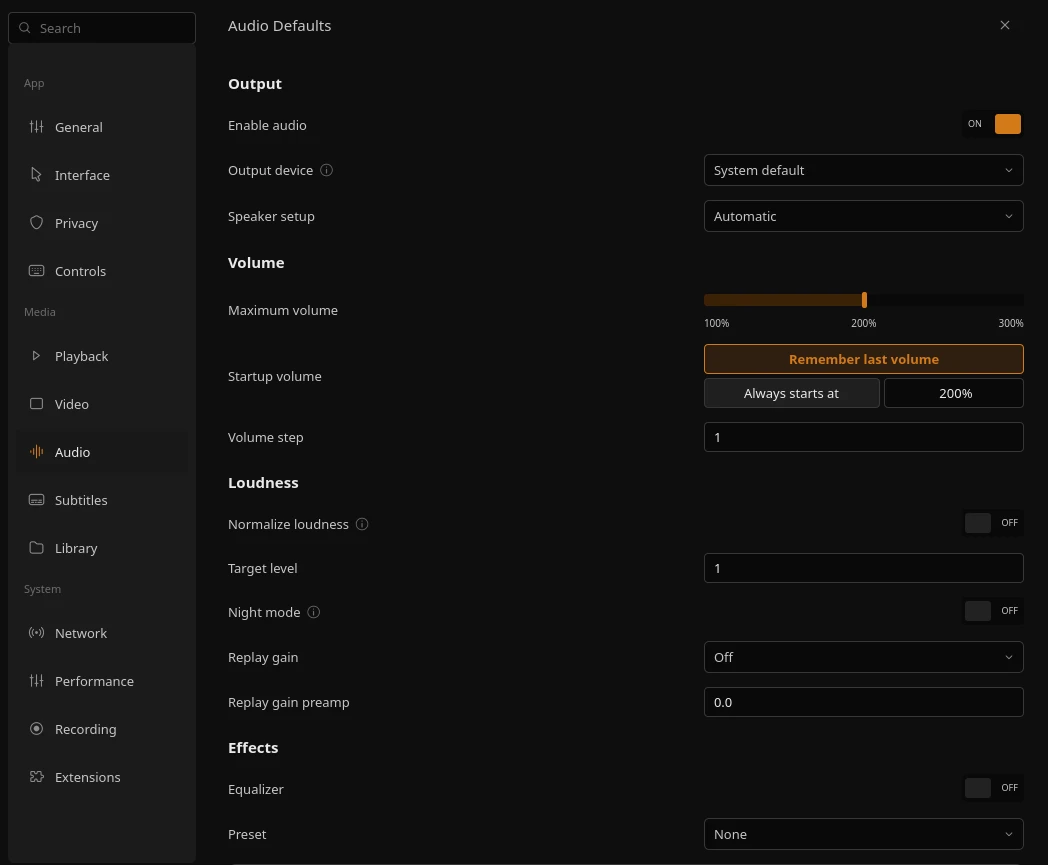
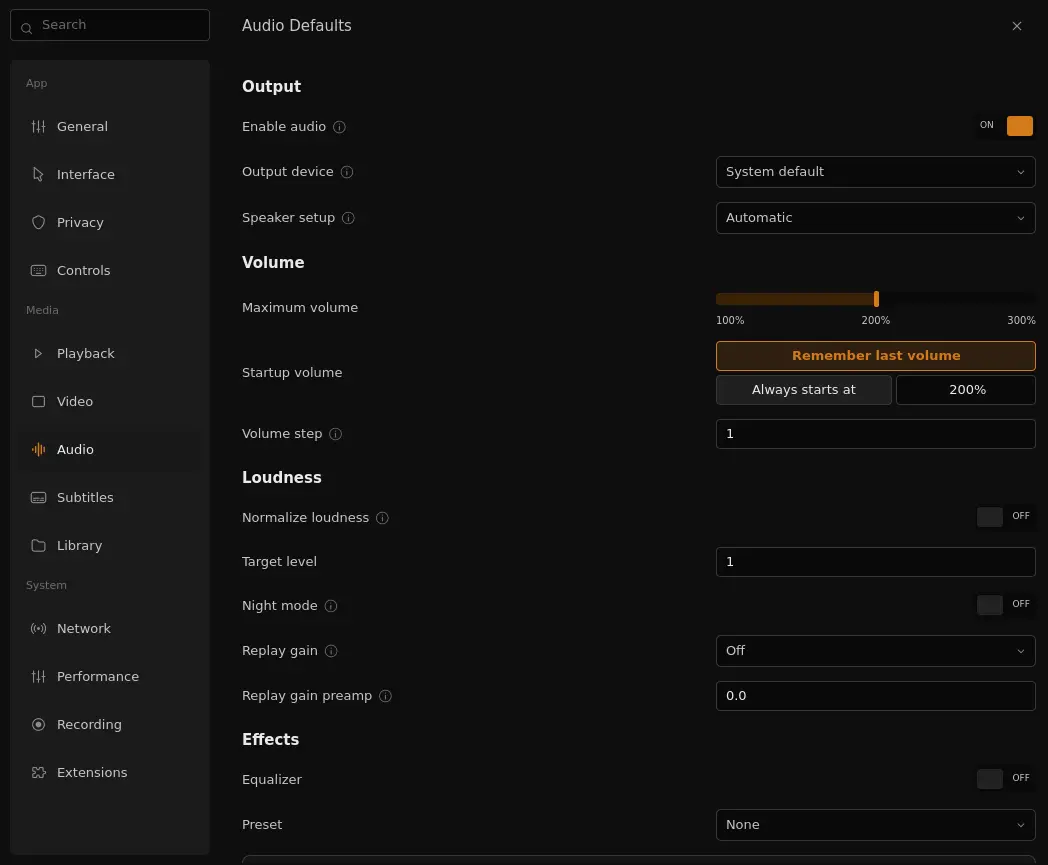
docs: refresh audio settings capture and CI matrix [skip ci]

diff --git a/docs/figma-parity.md b/docs/figma-parity.md
@@ -71,7 +71,7 @@ The video canvas background uses Figma charcoal `#2C2B29` in both themes. Video 
 | **Settings - privacy** — `3062:11911` | Recent history, resume position and network metadata/last.fm choices. | `SettingsDialog.qml` page `privacy`, `Player`, `PlayerStateStore`, `VlcOption.qml`. Recent-item saving and the exclusion filter, which splits entries on the vertical bar, map to VLC's Qt options; the player applies both when recording recents. Resume memory can be disabled, which clears stored resume points and stops new points from being saved. Clear history removes recents and resume points and refreshes the Home/Recent views. Metadata lookup, Last.fm credentials and submission URL map to VLC config. The Last.fm switch tracks the username field and clears both credentials when disabled. Live Last.fm submission still needs account credentials. **Partial.** | Smoke checks option support/round trips, history clearing controls, resume-memory switch synchronization, Last.fm switch/credential behavior, and captures the 1048×865 screen to `docs/screenshots/settings-privacy.webp`.| Compared with Figma node `3062:11911` at the same frame size. A local VLC Neo check opened one video whose folder matched the exclusion and a second allowed video; only the allowed item appeared in Recent. Live Last.fm submission still needs account credentials. |
 | **Settings - playback** — `3062:12552`, `3072:13408` | Startup behavior, resume, default speed, preferred tracks, order and seeking. | `SettingsDialog.qml` page `playback`, `NeoTheme.qml`, `VlcOption.qml`. Resume, autostart, default speed, audio focus, preferred resolution/menu language/audio/subtitle tracks, repeat/shuffle, stop-at-item/end action and precise seeking are mapped to VLC options or the app's persisted resume choice. Audio/subtitle defaults use VLC stream numbers (0-based); -1 leaves track selection to VLC. The “Stop” end action leaves VLC's default playlist-end behavior in place; “Stop after each item” is a separate VLC switch. Playback selectors and track fields use the Figma 320 px width. Advanced start-paused and preparse controls remain available. **Implemented.** | Smoke checks VLC option availability, Simple/Advanced visibility and round trips for rate, quality, language, track numbers, audio focus, shuffle, stop behavior, repeat/end actions and precise seeking. A two-audio/two-subtitle MKV verifies saved stream number 1 selects its Spanish audio and subtitle after restarting VLC. Separate real-VLC relaunch checks confirm Pause reaches the end and stays paused, while Exit closes VLC when the playlist completes. It checks all seven playback controls against the Figma 320 px width and captures the full-frame page to `docs/screenshots/settings-playback.webp`.| Both nodes `3062:12552` and `3072:13408` were visually compared against 1048×865 Neo captures at 86% zoom; the frame, section layout and two startup/resume variants align. The refreshed `settings-playback.webp` now reproduces the Figma example values: Always resume, Best available video, English, tracks 1, Shuffle on and Stop after each item on. The multi-track fixture verifies saved audio/subtitle track numbers after relaunch. A three-second first item followed by a 40-second second item verifies VLC’s `play-and-stop` setting persists across restart and stops before advancing. A second independently generated source with three audio streams and two subtitle streams restores the French audio and subtitle indices after relaunch. |
 | **Settings - video** — `3073:14187`, `3073:15375` | Video output, picture adjustments, deinterlacing, aspect and crop defaults. | `SettingsDialog.qml` page `video`, `SidePanel.qml`, `VlcOption.qml`. The page maps enable-video, fullscreen startup, screensaver, wallpaper mode, hue, brightness, contrast, saturation and gamma to VLC; the “Start videos in fullscreen” option is grouped under Video to match the Figma frame. Adjustment sliders and deinterlace/framing choices use the Figma 320 px control width. Editing an adjustment enables the `adjust` filter while retaining other video filters; returning all five picture controls to their defaults or using Reset removes only `adjust`. Deinterlacing, aspect ratio and crop are also mapped. Output-module and snapshot controls remain Advanced. The `vout` option is saved for other VLC interfaces; Neo always routes playback through its embedded output. Its help text explains this behavior. **Implemented.** | Smoke checks option availability, category grouping, simple/advanced visibility, adjustment/filter behavior, reset, and returning all five picture controls to neutral while preserving unrelated video filters; an isolated non-Neo VLC dummy-interface run confirms saved `vout=none` is applied; it also captures the 1048×865 video preferences screen in `docs/screenshots/settings-video.webp`.| Both 1048×865 video preference states were visually compared with nodes `3073:14187` and `3073:15375`; the option order, slider widths, section spacing and Advanced Options placement align. The selected Video category now uses the canonical `video-active.svg` export, matching the filled orange icon in node `3073:14187`; `settings-video.webp` was refreshed at 1048×865. A live VLC output check exercises picture adjustment; a relaunch check confirms VLC values and QML sliders restore brightness and contrast. A focused run saved `vout=none` and confirmed VLC Neo still received decoded frames through its required embedded output. A focused VLC 3.0.20 run with an isolated `vlcrc` and `--intf=dummy` confirms the non-Neo interface requests the `none` vout module and finds no matching display modules, while Neo continues rendering through its embedded output. |
-| **Settings - audio** — `3073:15879`, `3180:17398` | Audio output, volume, loudness, language, replay gain and effects. | `SettingsDialog.qml` page `audio`, `SidePanel.qml`, `VlcOption.qml`, `NVerticalSlider.qml`. The page maps enable-audio, output module/device, speaker mode, preferred language, pitch preservation, ReplayGain/preamp/peak protection, S/PDIF and volume step to VLC. Maximum volume is adjustable up to 300% and clamps the player; the two startup-volume choices are stacked like the Figma and update VLC's saved-volume behavior, while the fixed value is editable and applied on first media load. Visible audio fields and selectors use the Figma 320 px control width. Decimal fields remove redundant trailing zeros, keep the preamp's minimum one decimal place, and suppress binary float artifacts without changing VLC's stored values. Normalizer and compressor filters update VLC's `audio-filter` while retaining unrelated filters. Normalizer Target level stays visible when its filter is off; night-mode threshold appears when compression is enabled, and both values map to VLC config. The expanded equalizer now has an enable switch, all VLC 3 presets, editable preamp and ten frequency bands, and the two-pass option. Spatial audio and stereo widening toggle VLC 3's `spatializer` and `stereo_widen` filters; their module options are available under Advanced. VLC exposes only one spatializer mode. Active equalizer values are forwarded to the current audio output while also being saved as VLC preferences. Full multi-device selection still depends on the active output backend exposing devices. PipeWire sink switching and multi-track defaults are verified; native PulseAudio service compatibility remains unverified. Direct ALSA opened/configured HDMI 0, but audible playback on connected hardware remains unverified. **Partial.** | Smoke checks that a visible `VlcOption` refreshes after a VLC config update from another control, plus audio option availability, startup-volume selection and first-media application after relaunch through a temporary silent PipeWire PulseAudio sink, always-visible normalizer target, output/speaker config round trips and filter preservation, Figma decimal formatting with 1.75/1.25 precision and a noisy 12.8 float value, equalizer preset selection on real playback, all ten band values, preamp and two-pass config round trips, all nine spatializer/stereo-widen module option types, decimal module-option round trips, and filter enable/disable. Captures the normal audio page and expanded equalizer at 1048×865 to `docs/screenshots/settings-audio.webp` and `docs/screenshots/settings-audio-effects.webp`. CTest checks volume clamping/mute state.| Both captures were compared with their corresponding states in Figma: `settings-audio.webp` with node `3073:15879` and `settings-audio-effects.webp` with node `3180:17398`. A focused playback run on this machine enumerated both PipeWire PulseAudio sinks, switched the muted VLC stream to the other sink and confirmed that the selected device updated while playback continued. The fixed 35% startup volume was verified after relaunch through a temporary silent PipeWire PulseAudio sink. Smoke covers audio-track selection and persistence. A direct VLC ALSA probe opened `hw:CARD=PCH,DEV=3`; because that HDMI endpoint has no attached display or speakers, audible ALSA output remains unverified. Native PulseAudio daemon compatibility is not covered by this PipeWire host. |
+| **Settings - audio** — `3073:15879`, `3180:17398` | Audio output, volume, loudness, language, replay gain and effects. | `SettingsDialog.qml` page `audio`, `SidePanel.qml`, `VlcOption.qml`, `NVerticalSlider.qml`. The page maps enable-audio, output module/device, speaker mode, preferred language, pitch preservation, ReplayGain/preamp/peak protection, S/PDIF and volume step to VLC. Maximum volume is adjustable up to 300% and clamps the player; the two startup-volume choices are stacked like the Figma and update VLC's saved-volume behavior, while the fixed value is editable and applied on first media load. Visible audio fields and selectors use the Figma 320 px control width. Decimal fields remove redundant trailing zeros, keep the preamp's minimum one decimal place, and suppress binary float artifacts without changing VLC's stored values. Normalizer and compressor filters update VLC's `audio-filter` while retaining unrelated filters. Normalizer Target level stays visible when its filter is off; night-mode threshold appears when compression is enabled, and both values map to VLC config. The expanded equalizer now has an enable switch, all VLC 3 presets, editable preamp and ten frequency bands, and the two-pass option. Spatial audio and stereo widening toggle VLC 3's `spatializer` and `stereo_widen` filters; their module options are available under Advanced. VLC exposes only one spatializer mode. Active equalizer values are forwarded to the current audio output while also being saved as VLC preferences. Full multi-device selection still depends on the active output backend exposing devices. PipeWire sink switching and multi-track defaults are verified; native PulseAudio service compatibility remains unverified. Direct ALSA opened/configured HDMI 0, but audible playback on connected hardware remains unverified. **Partial.** | Smoke checks that a visible `VlcOption` refreshes after a VLC config update from another control, plus audio option availability, startup-volume selection and first-media application after relaunch through a temporary silent PipeWire PulseAudio sink, always-visible normalizer target, output/speaker config round trips and filter preservation, Figma decimal formatting with 1.75/1.25 precision and a noisy 12.8 float value, equalizer preset selection on real playback, all ten band values, preamp and two-pass config round trips, all nine spatializer/stereo-widen module option types, decimal module-option round trips, and filter enable/disable. Captures the normal audio page and expanded equalizer at 1048×865 to `docs/screenshots/settings-audio.webp` and `docs/screenshots/settings-audio-effects.webp`. CTest checks volume clamping/mute state.| Both captures were compared with their corresponding states in Figma: `settings-audio.webp` with node `3073:15879` and `settings-audio-effects.webp` with node `3180:17398`. The normal audio capture was refreshed from the successful 2026-10-29 CI smoke artifact; it confirms the two startup-volume choices use the same stacked arrangement as the Figma frame. A focused playback run on this machine enumerated both PipeWire PulseAudio sinks, switched the muted VLC stream to the other sink and confirmed that the selected device updated while playback continued. The fixed 35% startup volume was verified after relaunch through a temporary silent PipeWire PulseAudio sink. Smoke covers audio-track selection and persistence. A direct VLC ALSA probe opened `hw:CARD=PCH,DEV=3`; because that HDMI endpoint has no attached display or speakers, audible ALSA output remains unverified. Native PulseAudio daemon compatibility is not covered by this PipeWire host. |
 | **Settings - subtitles** — `3180:17989`, `6536:13908` | Subtitle enablement, language and encoding, file matching, font, relative/pixel sizing, text color/opacity, outline and shadow. | `SettingsDialog.qml` page `subtitles` follows the Figma sections for tracks/languages and appearance. The preference card uses the Figma's 14 px horizontal and 8/16 px vertical frame insets, 14 px corner radius and dark translucent surface. Navigation and setting fields align to the reference frame width. `VlcOption.qml` maps hex color fields, opacity sliders, bold, outline thickness, shadow and size mode to actual VLC config values. Switching between relative and pixel sizes retains the last pixel value in app settings. The encoding menu now includes all choices reported by the installed VLC build, including `Shift_JIS` and `Windows-1258`. Advanced VLC background and shadow controls remain available. The compact preferences window scrolls its category navigation and stacks the OpenSubtitles key controls to avoid overlap. The desktop key field, Save and Remove controls have non-overlapping layout and accessible names. **Partial.** | Smoke checks frame insets at two window sizes, folder matching, active subtitles, saved timeline style, available subtitle option types, hex color parsing/formatting, relative/pixel switching and restoration, VLC config round trips for encoding, color, bold and opacity, persistence after a VLC relaunch, and captures the subtitles page at the exact 1048×865 Figma frame size; the current comparison image is `docs/screenshots/settings-subtitles.webp`. A separate 720×560 capture verifies the compact layout in [`settings-subtitles-compact.webp`](screenshots/settings-subtitles-compact.webp). The latest cross-distro CI smoke run passed on Arch and Mint, including the API-key geometry assertion. | The 1048×865 subtitle capture is checked against both nodes `6536:13908` and `3180:17989`; section order, typography controls and sizing/color rows align. The encoding list was compared with `vlc --longhelp --advanced` on the installed VLC build and updated to all 43 reported choices. The 720×560 capture confirms the stacked API-key controls and compact frame; category navigation and settings content use separate scroll areas. The custom OpenSubtitles key editor is not present in this Figma frame. It now uses the standard settings-field alignment, a primary Save key action below the field and a secondary Remove key action; desktop and compact geometry are covered by focused checks. |
 | **Settings - controls** — `6536:14482` | Keyboard shortcut discovery/editing, skip amounts, mouse and remote behavior. | `SettingsDialog.qml` page `controls`, `ShortcutsDialog.qml`, `Main.qml`, `NeoTheme.qml`. The page follows the Figma grouping, including reset and edit actions. It maps Figma's vertical/horizontal scroll, reverse direction, four skip amounts and web-remote enable/port to VLC options. Skip values use 320 px fields and show seconds units; the edit/reset buttons and mouse/scroll selectors use the same Figma control width. Keyboard seek steps read VLC's configured jump sizes; video click and double-click actions have saved choices. Neo's displayed shortcuts can be reassigned with conflict rejection, persist across launches, run their mapped action and reset to defaults. The dialog includes all 111 local and all 111 global VLC 3 core hotkey options and restores their values captured at the first opening; it scrolls and switches to one column in narrow windows. The Web remote switch enables VLC's HTTP interface through `extraintf`; VLC loads it after restart. **Partial.** | Smoke verifies available VLC options and round trips, configured jump sizes, Figma field widths and skip units, captures both the controls page and shortcut editor, assigns Neo, local VLC and global VLC shortcuts, checks their persistence/reset behavior, rejects conflicts, and covers keyboard seeking and popup dismissal. VLC Neo saved `extraintf`, HTTP host, port and password through its config API in an isolated profile. A second VLC launch with no HTTP command-line flags served the remote page; the configured password returned HTML and a request without credentials returned HTTP 401.| The saved [`settings-controls.webp`](screenshots/settings-controls.webp) is cropped from the actual SettingsDialog at exactly 1048×865 (window 1076×889, dialog origin 14×8), then compared with Figma node `6536:14482`; category alignment, section spacing, control widths and placement match. X11 `XF86AudioPlay`, `XF86AudioPause` and `XF86AudioNext` events were sent to the focused VLC Neo window; matching Qt key-event checks cover Previous, Stop and toggle behavior. The remote page and password behavior were checked locally. An X11 run under Xvfb/Metacity delivered real vertical and horizontal wheel events to the player: Seek moved by the configured 3-second step, reversed mode moved backward by 3 seconds, and volume stayed unchanged. The same run verified video click toggles playback and double-click enters and exits fullscreen. A Ctrl+wheel X11 run confirmed those events reach VLC's configured subtitle-size hotkeys (100→110→100); unmodified wheel behavior remains mapped to Neo's selected scroll mode. All 111 local action labels were checked against this VLC build's hotkey descriptions; the 360° field-of-view labels, one-pixel crop labels, sync-reset label, and repeat label now match the documented actions. Runtime Ctrl+wheel confirms subtitle-scale up/down behavior despite the installed help text describing those two bindings in reverse. Remaining check: verify remote access from another device on the intended network. |
 | **Settings - library** — `6542:15251` | Folder/file opening rules, hidden files, metadata and artwork. | `SettingsDialog.qml` page `library`, `LibraryPanel.qml`, `NeoTheme.qml`. Opening behavior maps to VLC's single-instance, enqueue and recursion options. The file-manager-only option disables and dims itself when single-instance mode is off, matching the Figma dependency while preserving its saved VLC value. VLC 3's `recursive` option sets the preparse depth of child items (`none`: 0, `collapse`: 1, `expand`: unlimited); it does not change Neo's recursively populated folder browser or library index. Hidden files update the folder browser immediately; metadata/artwork lookup maps to VLC's network access setting, shared with Privacy, and media-library access maps to VLC's core option. The setting description distinguishes VLC's online lookup from Neo's local scan, which reads embedded tags and local cover art. Ignored extensions, pinned folders and playlist-tree behavior remain available under Advanced. Pinned folders can be added from the folder sidebar, then opened from the Home library sidebar; that pin control was previously hidden because the panel always set `wide: true`. **Partial.** | Smoke checks the dependent file-manager option's enable/dim state and saved-value preservation, option round trips through the visible controls for all three recursion choices and metadata-network access, then verifies they persist after relaunch. A nested-video fixture two folders deep is indexed and visible in Neo's Videos catalog with each VLC recursion value (`none`, `collapse`, `expand`), confirming VLC's preparse setting does not restrict Neo's library scan. It also checks the Figma page title and hidden-file filtering both off and on; captures the Library preferences page. The folder-pin flow clicks the actual pin control, opens the pinned row from Home, relaunches VLC to verify persistence, and clears the test pin.| Compared refreshed `settings-library.webp` with node `6542:15251` in the authenticated browser: opening-rule order and control placement align, including the dimmed file-manager option when single-instance mode is OFF. Pinned-folder navigation, relaunch persistence, the option dependency and preference-control round trips are verified. VLC 3.0 maps `recursive` to the active item’s preparse depth (`none`: 0, `collapse`: 1, `expand`: unlimited) in its [input implementation](https://github.com/videolan/vlc-3.0/blob/master/src/input/input.c). A targeted real-VLC folder playback check produced the same visible nested-media queue for all three values, so it does not prove the internal preparse-depth effect; that behavior remains open. Neo's independent library scan finds the same nested video under every setting. Live VLC metadata/artwork lookup during playback also remains open; Neo's local library intentionally uses embedded tags and local cover art. |
